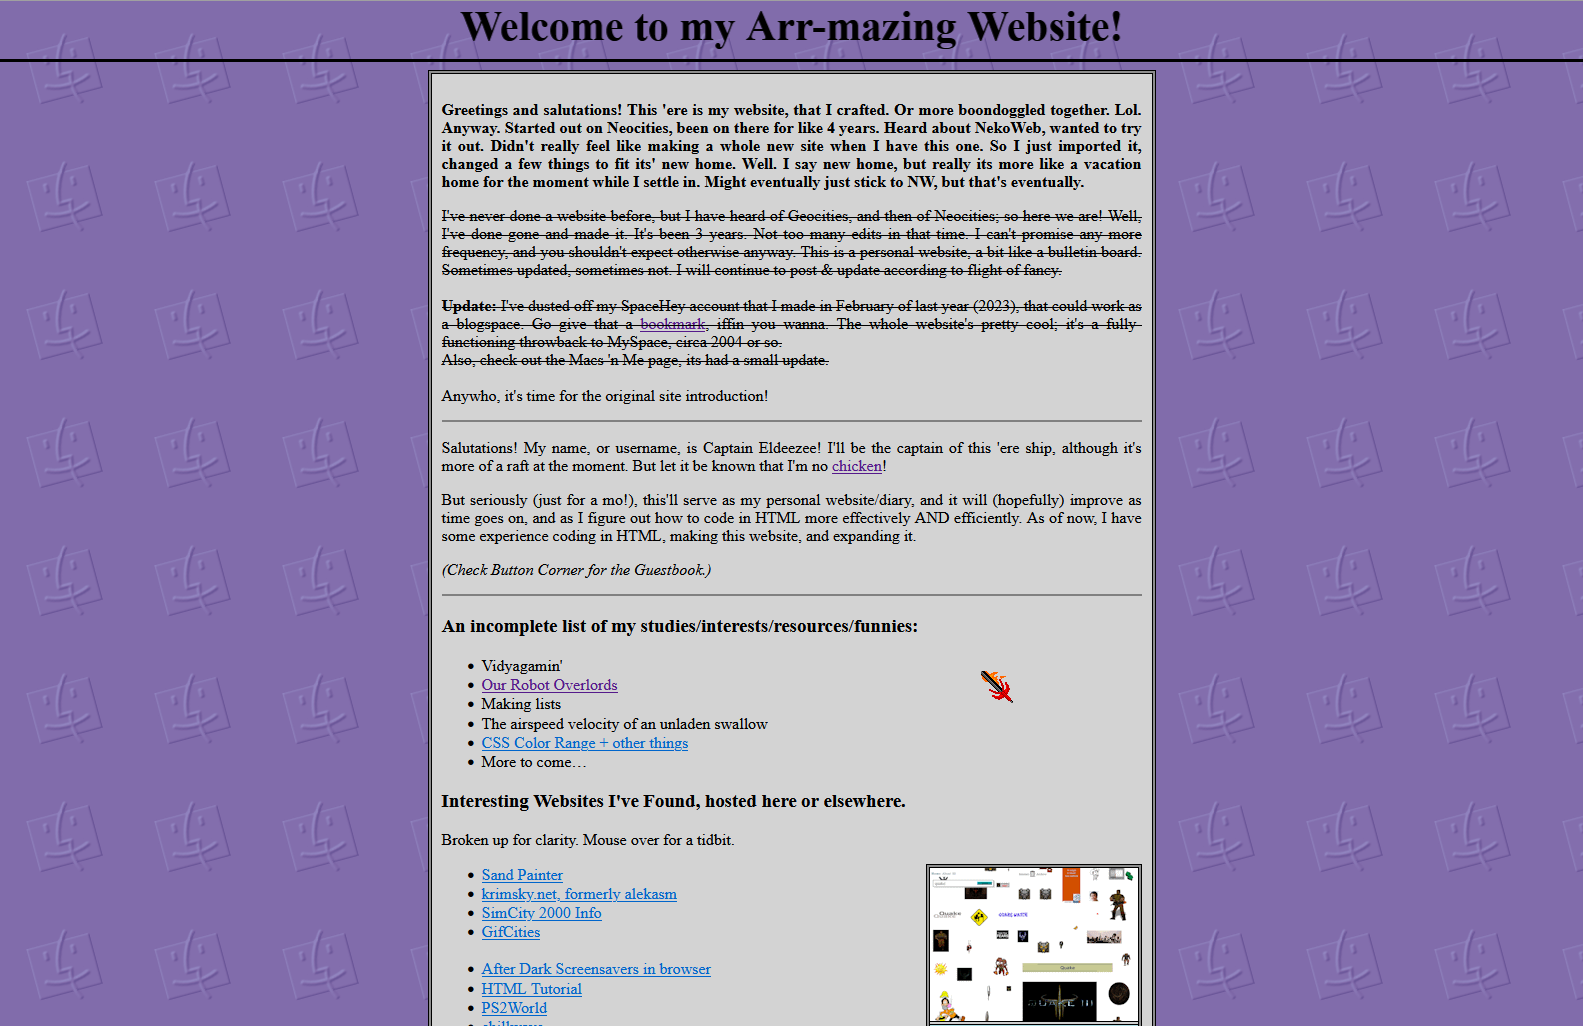
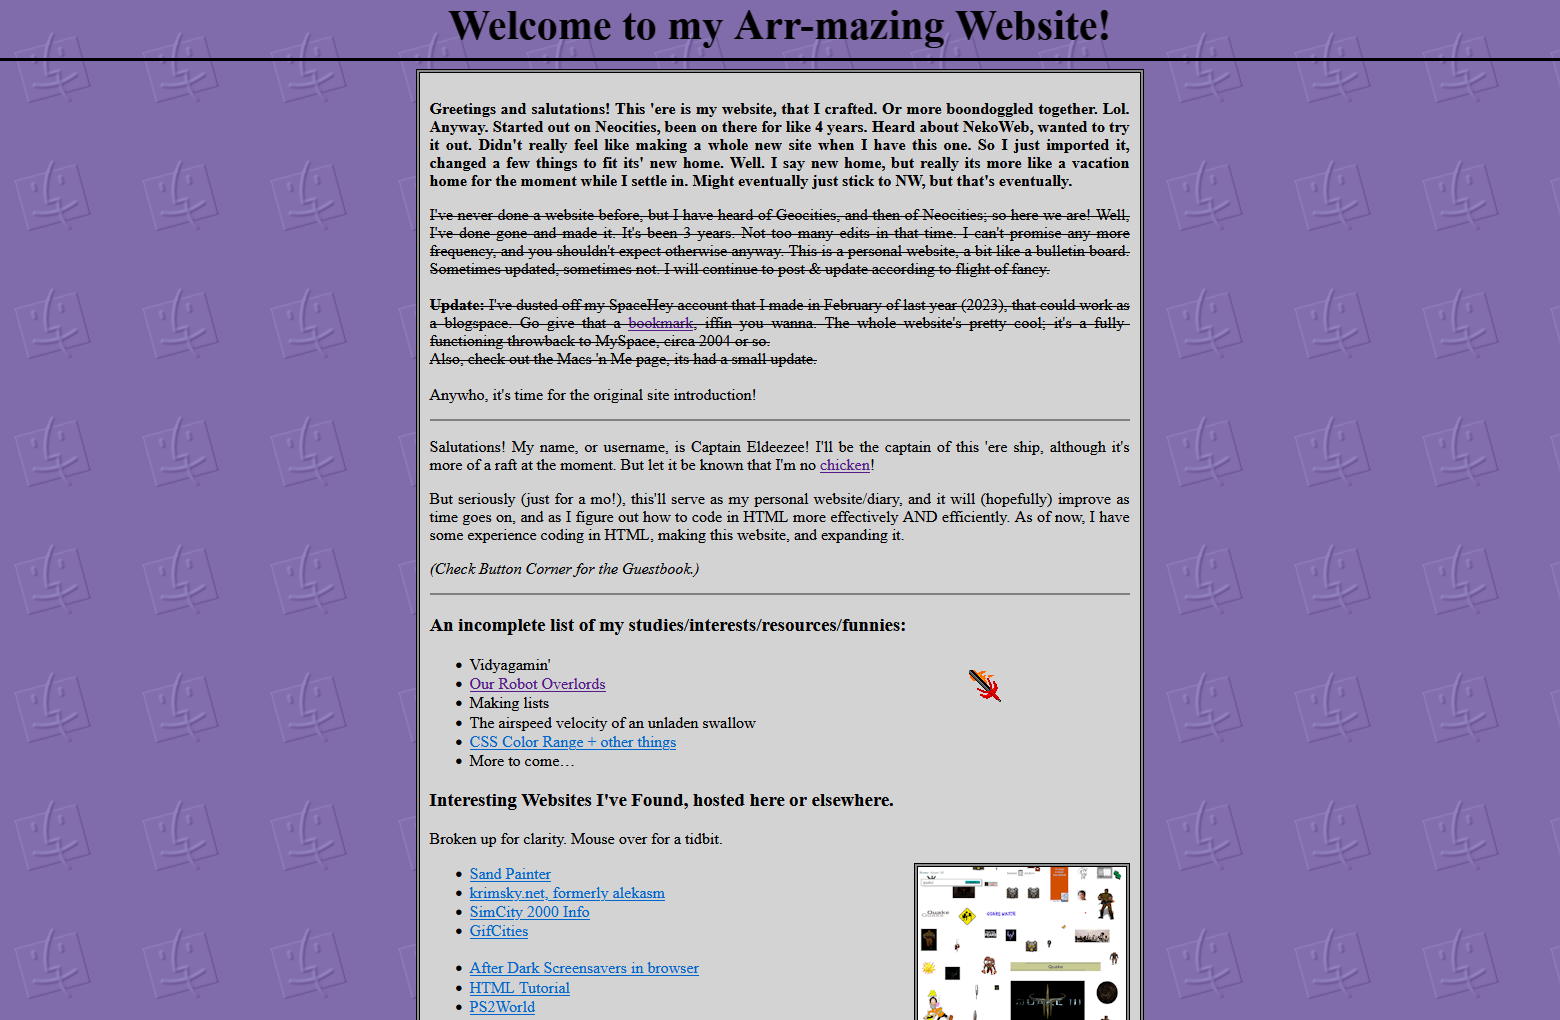
Added one image, image thumbnail links.

Changed region(s): [[0.2462, 0.0, 0.7385, 1.0], [0.6154, 0.6382, 0.6462, 0.699]]

diff --git a/index.html b/index.html
@@ -37,38 +37,48 @@
                 night, or even the early morning, when there is almost no one else on the roads. I enjoy visiting nature
                 via local parks and trails. I always think I’m going to sit one day and do pencil drawings of the area.
                 Still haven’t gotten around to it.</p>
-    </section>
+            <a href="images/oldtech.png"><img src="images/oldtech_thumb.png"
+                    alt="Stylized image collage of a PS/2 keyboard, mechanical mouse, CD-Rs, and PC cables."></a>
+        </section>
+        <section>
+            <h2 id="avatar">Avatar to Be</h2>
+            <p>The character/avatar I've decided to use for this class is one that I've already conceived before, that
+                of an
+                old
+                seafaring captain. "Captain Eldeezee" is his name, and is in fact just my initials sounded out into a
+                word.
+                "L-D-Z" becomes "El-dee-zee". The visual look of him is just the Simpsons sea captain character. As
+                seen:</p>
+            <a href="images/Captain_McCallister.png"><img src="images/Captain_McCallister_thumb.png"
+                    alt="Image of Simpsons sea captain character, Captain McCalister."></a>
+            <p>His character
+                comes through the text most obviously. Lots of stereotypical seafaring lingo. “Arr, me mateys” and so
+                on.
+                Other
+                than that, he’s a bit of a one-dimensional character, mostly just a funny persona that I put on. So he
+                has
+                no
+                established backstory. His “ship” is in fact the website, that is how he refers to it.</p>
+        </section>
 
-    <section>
-        <h2 id="avatar">Avatar to Be</h2>
-        <p>The character/avatar I've decided to use for this class is one that I've already conceived before, that of an
-            old
-            seafaring captain. "Captain Eldeezee" is his name, and is in fact just my initials sounded out into a word.
-            "L-D-Z" becomes "El-dee-zee". The visual look of him is just the Simpsons sea captain character. As
-            seen:</p>
-        <img src="https://captaineldeezee.nekoweb.org/general-use-imgs/capt.png"
-            alt="Image of Simpsons sea captain character, Captain McCalister.">
-        <p>His character
-            comes through the text most obviously. Lots of stereotypical seafaring lingo. “Arr, me mateys” and so on.
-            Other
-            than that, he’s a bit of a one-dimensional character, mostly just a funny persona that I put on. So he has
-            no
-            established backstory. His “ship” is in fact the website, that is how he refers to it.</p>
-    </section>
-
-    <section>
-        <h2 id="journey">My Journey</h2>
-        <p>So far, I have in fact designed my own website before, and it is currently live via two web-hosting
-            providers,
-            that being Neocities & Nekoweb. In fact, I plan on eventually focusing solely on Nekoweb, as (in my opinion)
-            it
-            has better features overall. It’s not a very modern website by any means, in fact its a core design feature
-            that
-            it isn’t. It’s definitely a personal website, a la 90s Geocities pages. So tiled backgrounds, plain fonts,
-            low-res images. I’ll even link it, here: <a href=”captaineldeezee.nekoweb.org”>My website</a>. And here's a
-            screenshot of the homepage:</p>
-        <img src="images/mywebsite_screenie.png" width="500" alt="A screenshot of my other website's home page.">
-    </section>
+        <section>
+            <h2 id="journey">My Journey</h2>
+            <p>So far, I have in fact designed my own website before, and it is currently live via two web-hosting
+                providers,
+                that being Neocities & Nekoweb. In fact, I plan on eventually focusing solely on Nekoweb, as (in my
+                opinion)
+                it
+                has better features overall. It’s not a very modern website by any means, in fact its a core design
+                feature
+                that
+                it isn’t. It’s definitely a personal website, a la 90s Geocities pages. So tiled backgrounds, plain
+                fonts,
+                low-res images. I’ll even link it, here: <a href=”captaineldeezee.nekoweb.org”>My website</a>. And
+                here's a
+                screenshot of the homepage:</p>
+            <a href="images/mywebsite_screenie.png"><img src="images/mywebsite_screenie_thumb.png"
+                    alt="A screenshot of my other website's home page."></a>
+        </section>
     </main>
     <footer>
         <a href="https://www.dallascollege.edu/pages/default.aspx">Dallas College</a> |
